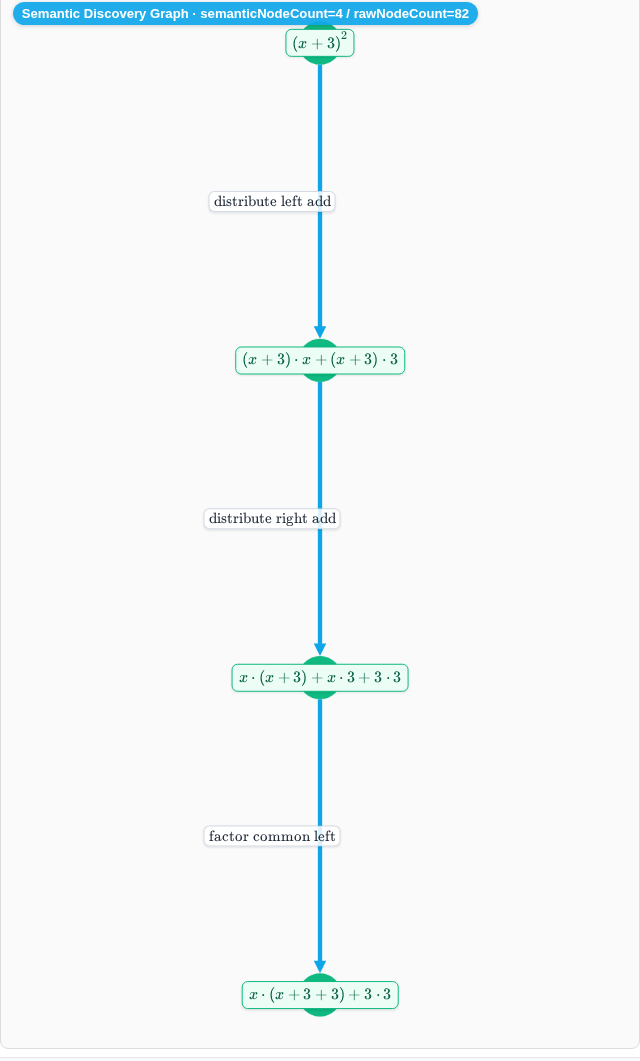
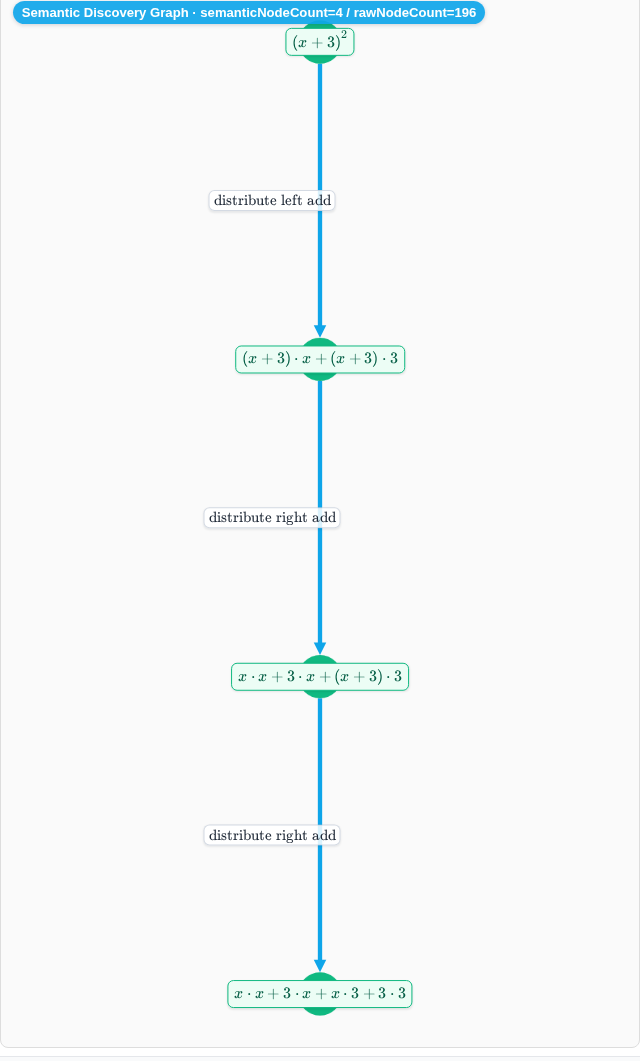
Add semantic graph acceptance dumps

diff --git a/app/src/e2eTest/java/de/regelsuche/e2e/BrowserDemoFlowTest.java b/app/src/e2eTest/java/de/regelsuche/e2e/BrowserDemoFlowTest.java
@@ -788,12 +788,18 @@ class BrowserDemoFlowTest {
                 + "     seenLabels.add(node.normalizedLabel);"
                 + "   }"
                 + " });"
-                + " const mainPathMeaningfulNodeCount = nodes.filter(node =>"
+                + " const visibleMainPathMeaningfulNodeCount = nodes.filter(node =>"
                 + "   node.onMainPath && node.normalizedLabel && !node.revisit && !node.cycle"
                 + " ).length;"
+                + " const collapsedMainPathStepCount = edges.filter(edge => edge.kind === 'MAIN_STEP').length;"
+                + " const mainPathMeaningfulNodeCount = visibleMainPathMeaningfulNodeCount >= 4"
+                + "   ? visibleMainPathMeaningfulNodeCount"
+                + "   : Math.max(visibleMainPathMeaningfulNodeCount, collapsedMainPathStepCount + 2);"
                 + " const dump = {"
                 + "   schema: 'regelsuche.semantic-graph-debug/v1',"
                 + "   fileName,"
+                + "   requestUrl: window.__lastGraphRequestUrl || '',"
+                + "   requestParams: window.__lastGraphRequestParams || {},"
                 + "   visibleNodeIds: nodes.map(node => node.id),"
                 + "   nodes,"
                 + "   edges,"
@@ -803,6 +809,8 @@ class BrowserDemoFlowTest {
                 + "   duplicateNormalizedLabelCount: duplicateLabels.size,"
                 + "   nodeOverlapCount: countGraphLabelOverlaps(false),"
                 + "   edgeLabelOverlapCount: countGraphLabelOverlaps(true),"
+                + "   visibleMainPathMeaningfulNodeCount,"
+                + "   collapsedMainPathStepCount,"
                 + "   mainPathMeaningfulNodeCount"
                 + " };"
                 + " window.__lastSemanticGraphDebugDump = dump;"
@@ -812,8 +820,11 @@ class BrowserDemoFlowTest {
     }
 
     private int expectedMinSemanticGraphNodes(String fileName) {
-        if (fileName.contains("binomial") || fileName.contains("polynomial")) {
+        if (fileName.contains("binomial")) {
             return 4;
+        }
+        if (fileName.contains("polynomial")) {
+            return 3;
         }
         if (fileName.contains("trigonometry")) {
             return 2;
@@ -822,8 +833,11 @@ class BrowserDemoFlowTest {
     }
 
     private int expectedMinSemanticGraphEdges(String fileName) {
-        if (fileName.contains("binomial") || fileName.contains("polynomial")) {
+        if (fileName.contains("binomial")) {
             return 3;
+        }
+        if (fileName.contains("polynomial")) {
+            return 2;
         }
         if (fileName.contains("trigonometry")) {
             return 1;

diff --git a/app/src/main/java/de/regelsuche/web/WebWorkbenchServer.java b/app/src/main/java/de/regelsuche/web/WebWorkbenchServer.java
@@ -1118,11 +1118,7 @@ public class WebWorkbenchServer {
     ) {
         var transformations = graphStore.discoveredTransformations();
         var rawGraph = buildSearchGraph();
-        var selectedTransformations = pathId == null || pathId.isBlank()
-            ? transformations
-            : transformations.stream()
-                .filter(transformation -> pathId.equals(transformation.id()))
-                .toList();
+        var selectedTransformations = selectSemanticTransformations(transformations, pathId);
         var macroRules = new de.regelsuche.mining.MacroRuleMiner().mine(selectedTransformations);
         return new de.regelsuche.api.searchgraph.semantic.SemanticSearchGraphAssembler().assemble(
             rawGraph,
@@ -1135,6 +1131,22 @@ public class WebWorkbenchServer {
             maxAlternatives,
             maxVariantsPerCluster
         );
+    }
+
+    private List<de.regelsuche.discovery.DiscoveredTransformation> selectSemanticTransformations(
+        List<de.regelsuche.discovery.DiscoveredTransformation> transformations,
+        String pathId
+    ) {
+        if (pathId == null || pathId.isBlank()) {
+            return transformations;
+        }
+        var selected = transformations.stream()
+            .filter(transformation -> pathId.equals(transformation.id()))
+            .toList();
+        if (selected.isEmpty()) {
+            return List.of();
+        }
+        return selected;
     }
 
     private void handleExplain(HttpExchange exchange) throws IOException {
